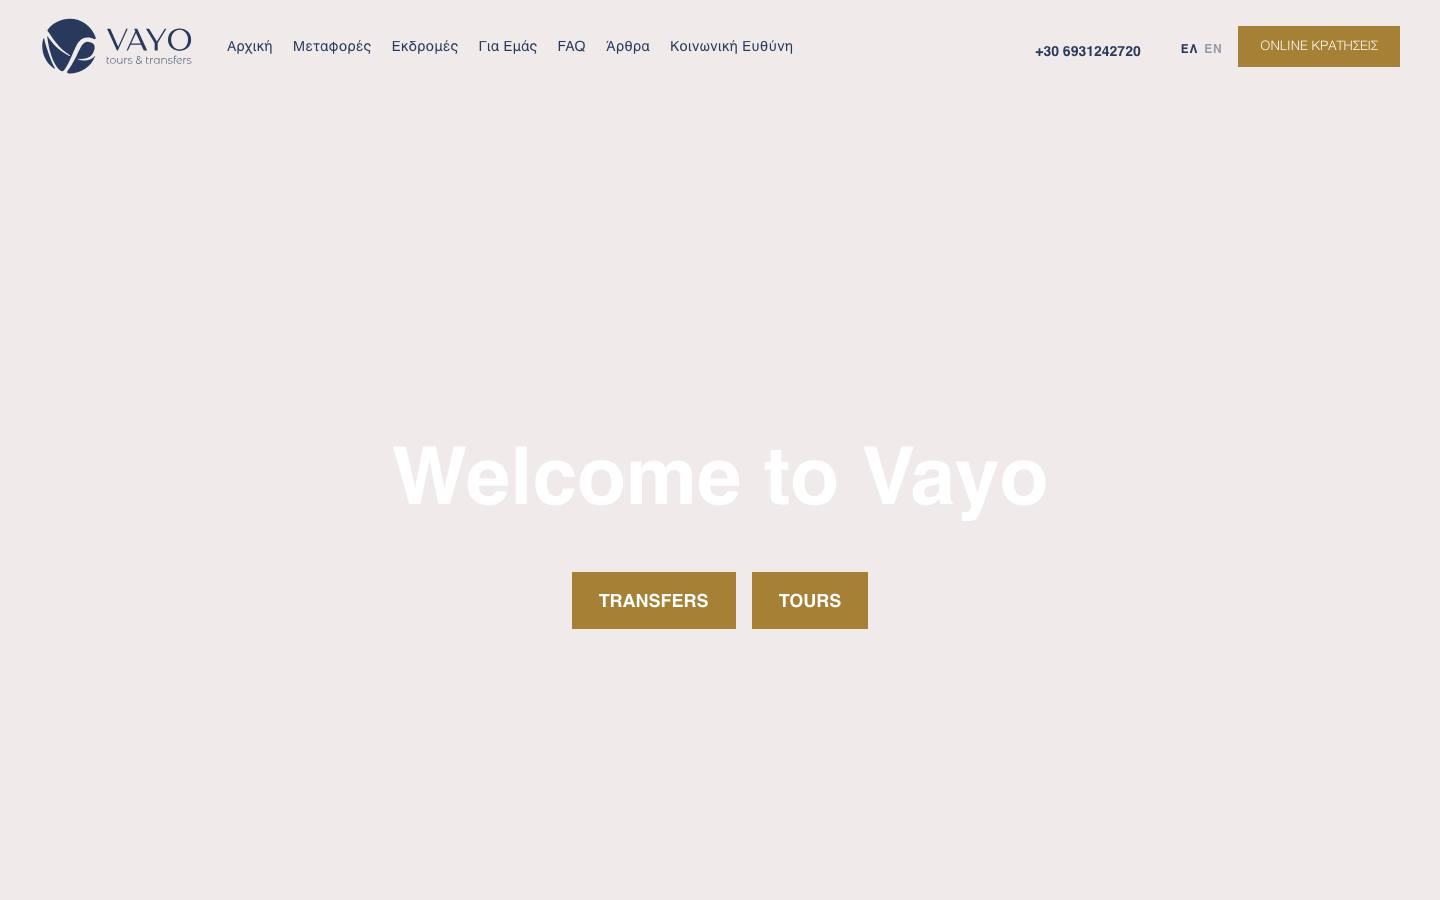
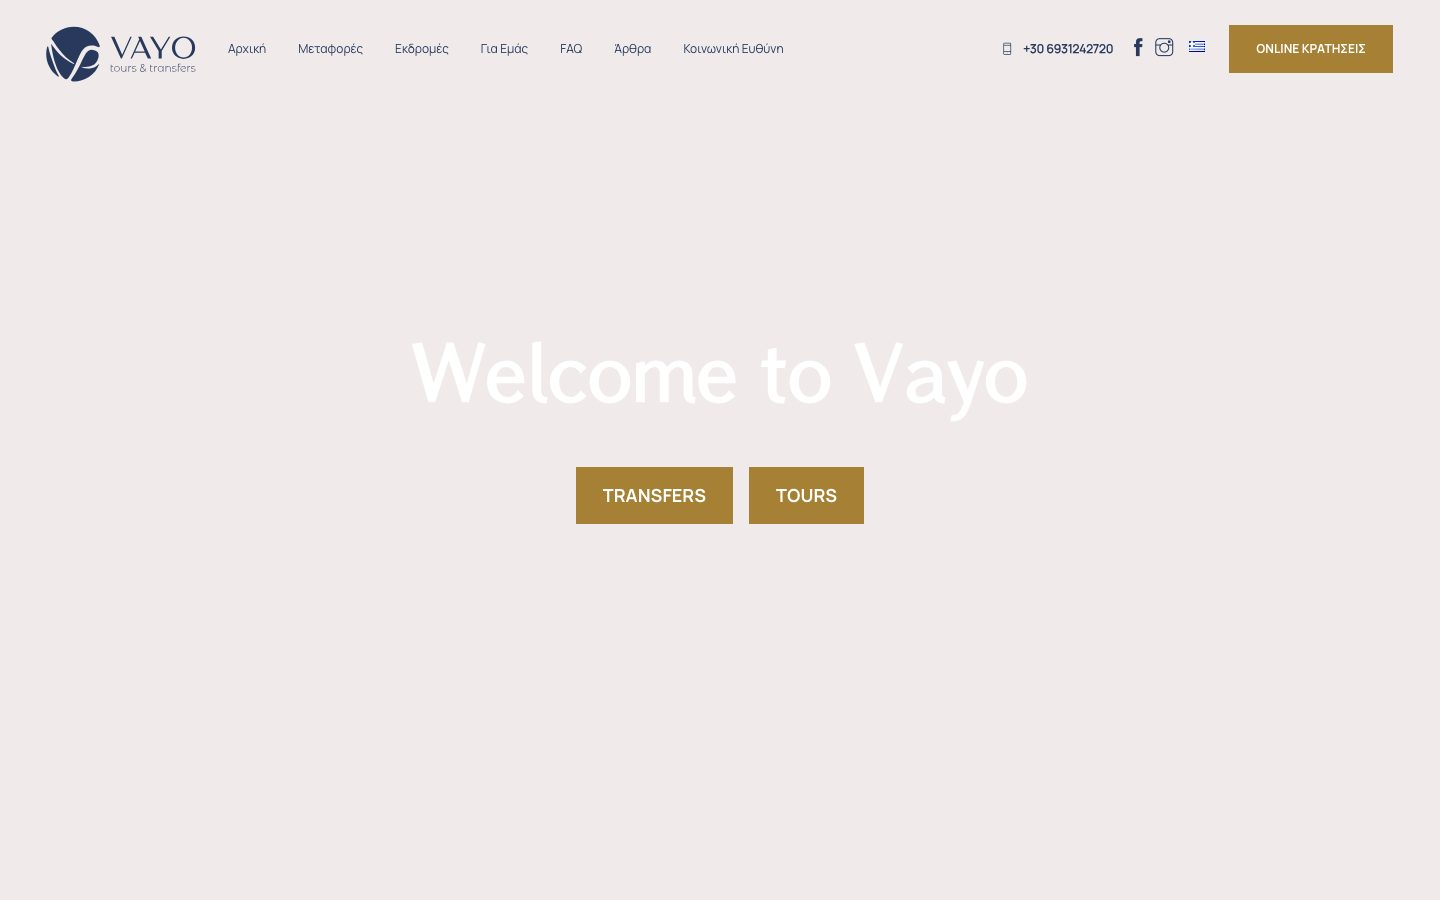
feat: add new portfolio sites and update thumbnails
- Introduced several new client websites to the portfolio, enhancing the diversity of showcased services.
- Added corresponding thumbnail images for each new entry, improving visual representation.
- Removed outdated entries to streamline the portfolio and maintain relevance.

diff --git a/client/src/data/portfolio-sites.ts b/client/src/data/portfolio-sites.ts
@@ -8,9 +8,73 @@ export type PortfolioSite = {
 
 /**
  * Client websites for the public portfolio offer page.
- * Thumbs live in /public/portfolio-thumbs (captured from live or *.hayc.gr).
+ * Order matters — first entries appear at the top of the grid.
+ * Thumbs live in /public/portfolio-thumbs.
  */
 export const portfolioSites: PortfolioSite[] = [
+  {
+    domain: "stamatopoulosbakery.gr",
+    name: "Stamatopoulos Bakery",
+    url: "https://stamatopoulosbakery.gr",
+    thumb: "/portfolio-thumbs/stamatopoulosbakery-gr.jpg",
+    category: "Food",
+  },
+  {
+    domain: "vayo.gr",
+    name: "Vayo Tours & Transfers",
+    url: "https://vayo.gr",
+    thumb: "/portfolio-thumbs/vayo-gr.jpg",
+    category: "Travel",
+  },
+  {
+    domain: "calypsoyachting.com",
+    name: "Calypso Yachting",
+    url: "https://calypsoyachting.com",
+    thumb: "/portfolio-thumbs/calypsoyachting-com.jpg",
+    category: "Yachting",
+  },
+  {
+    domain: "nathaliespiliopoulou.com",
+    name: "Nathalie Spiliopoulou",
+    url: "https://nathaliespiliopoulou.com",
+    thumb: "/portfolio-thumbs/nathaliespiliopoulou-com.jpg",
+    category: "Professional",
+  },
+  {
+    domain: "taniamiliou.com",
+    name: "Tania Miliou Fine Art",
+    url: "https://taniamiliou.com",
+    thumb: "/portfolio-thumbs/taniamiliou-com.jpg",
+    category: "Art",
+  },
+  {
+    domain: "accountex.gr",
+    name: "AccountEx",
+    url: "https://accountex.gr",
+    thumb: "/portfolio-thumbs/accountex-gr.jpg",
+    category: "Business",
+  },
+  {
+    domain: "eskapex.hayc.gr",
+    name: "eSKapex",
+    url: "https://eskapex.hayc.gr",
+    thumb: "/portfolio-thumbs/eskapex-hayc-gr.jpg",
+    category: "Adventure",
+  },
+  {
+    domain: "dekapus.com.gr",
+    name: "Dekapus",
+    url: "https://dekapus.com.gr",
+    thumb: "/portfolio-thumbs/dekapus-com-gr.jpg",
+    category: "Business",
+  },
+  {
+    domain: "proiosoffice.com",
+    name: "Proios Office",
+    url: "http://proiosoffice.com",
+    thumb: "/portfolio-thumbs/proiosoffice-com.jpg",
+    category: "Business",
+  },
   {
     domain: "ak-business-consultant.gr",
     name: "AK Business Consultant",
@@ -54,13 +118,6 @@ export const portfolioSites: PortfolioSite[] = [
     category: "Health",
   },
   {
-    domain: "nathaliespiliopoulou.com",
-    name: "Nathalie Spiliopoulou",
-    url: "https://nathaliespiliopoulou.com",
-    thumb: "/portfolio-thumbs/nathaliespiliopoulou-com.jpg",
-    category: "Professional",
-  },
-  {
     domain: "primaverastudios.net",
     name: "Primavera Studios",
     url: "https://primaverastudios.net",
@@ -81,39 +138,11 @@ export const portfolioSites: PortfolioSite[] = [
     thumb: "/portfolio-thumbs/spanishwithdiaconis-com.jpg",
     category: "Education",
   },
-  {
-    domain: "stamatopoulosbakery.gr",
-    name: "Stamatopoulos Bakery",
-    url: "https://stamatopoulosbakery.gr",
-    thumb: "/portfolio-thumbs/stamatopoulosbakery-gr.jpg",
-    category: "Food",
-  },
-  {
-    domain: "vayo.gr",
-    name: "Vayo Tours & Transfers",
-    url: "https://vayo.gr",
-    thumb: "/portfolio-thumbs/vayo-gr.jpg",
-    category: "Travel",
-  },
-  // Domains from Cloudflare without a public homepage we could screenshot yet
-  {
-    domain: "accountnr.gr",
-    name: "Account NR",
-    url: "https://accountnr.gr",
-    thumb: null,
-    category: "In progress",
-  },
+  // Remaining domains without a confirmed public homepage yet
   {
     domain: "adytomykonos.com",
     name: "Adyto Mykonos",
     url: "https://adytomykonos.com",
-    thumb: null,
-    category: "In progress",
-  },
-  {
-    domain: "dexapus.com.gr",
-    name: "Dexapus",
-    url: "https://dexapus.com.gr",
     thumb: null,
     category: "In progress",
   },
@@ -156,20 +185,6 @@ export const portfolioSites: PortfolioSite[] = [
     domain: "primelustransfer.com",
     name: "Prime Lus Transfer",
     url: "https://primelustransfer.com",
-    thumb: null,
-    category: "In progress",
-  },
-  {
-    domain: "proisoffice.com",
-    name: "Prois Office",
-    url: "https://proisoffice.com",
-    thumb: null,
-    category: "In progress",
-  },
-  {
-    domain: "taniamillou.com",
-    name: "Tania Millou",
-    url: "https://taniamillou.com",
     thumb: null,
     category: "In progress",
   },
